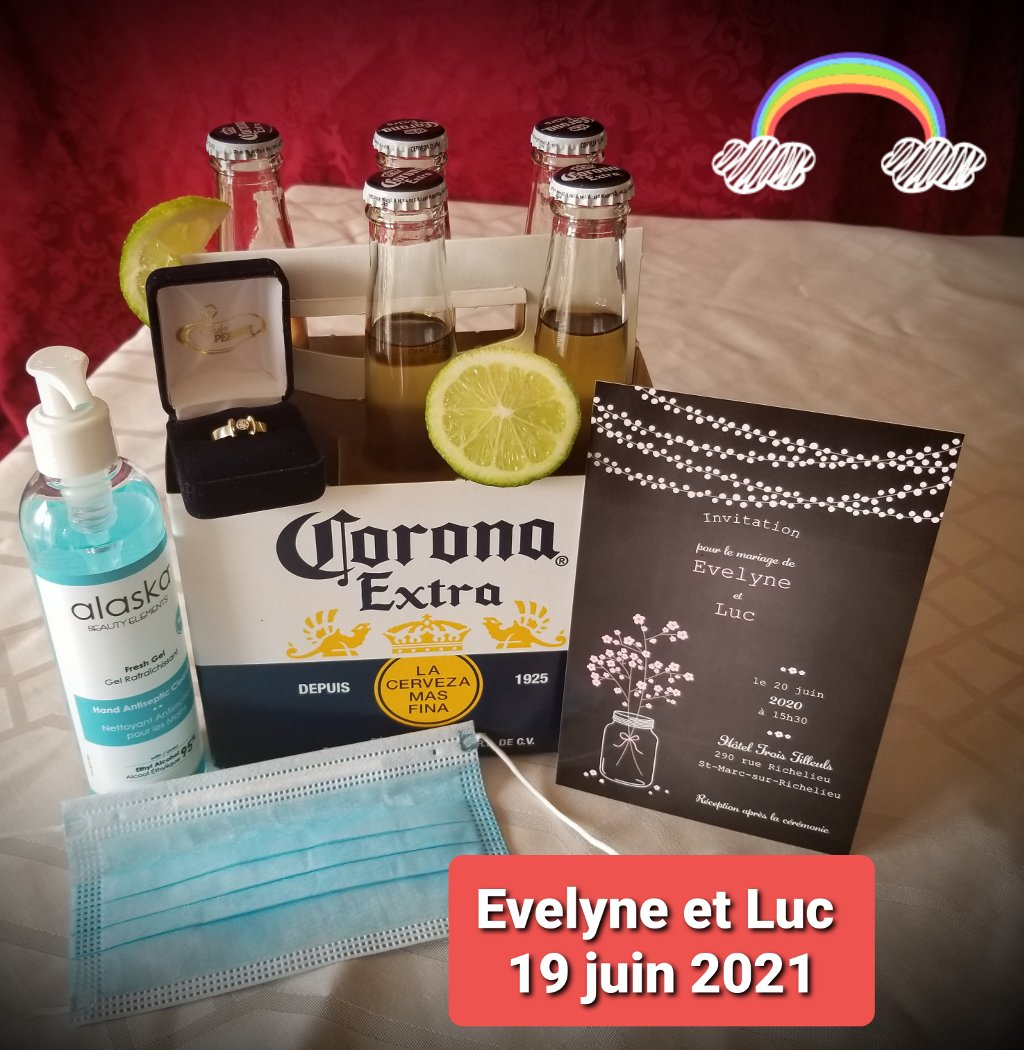
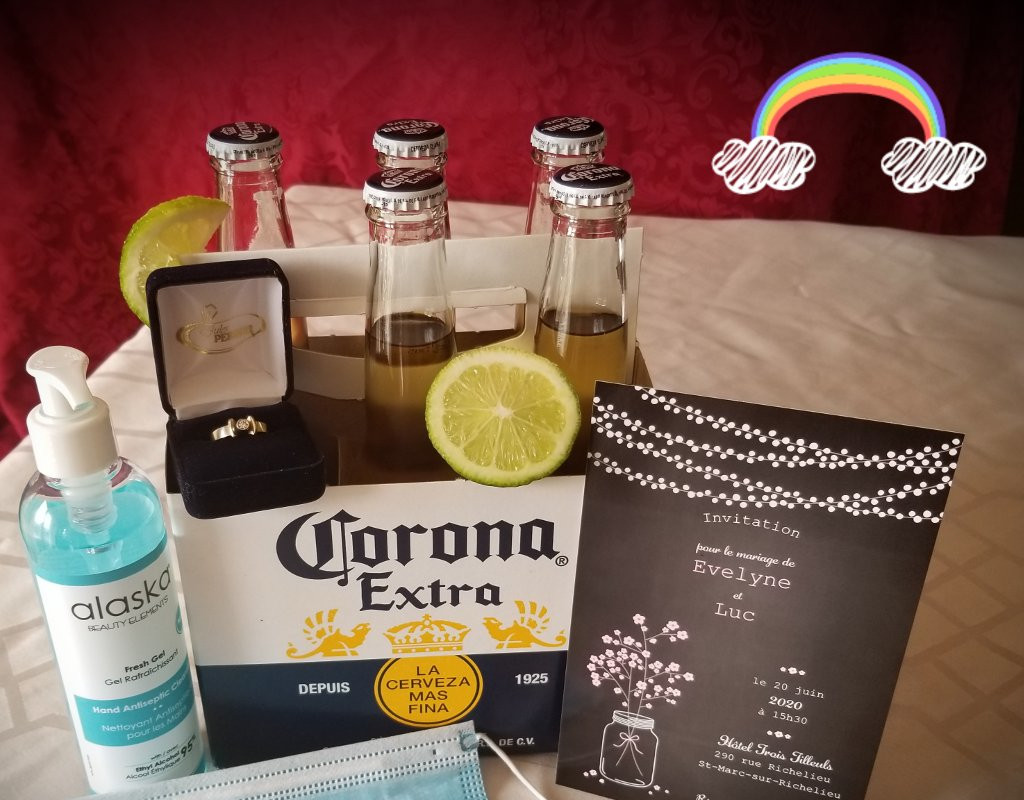
Canceled

diff --git a/index.html b/index.html
@@ -34,31 +34,6 @@
       <button class="navbar-toggler navbar-toggler-right" type="button" data-toggle="collapse" data-target="#navbarResponsive" aria-controls="navbarResponsive" aria-expanded="false" aria-label="Toggle navigation">
         <span class="navbar-toggler-icon"></span>
       </button>
-      <div class="collapse navbar-collapse" id="navbarResponsive">
-      <ul class="nav navbar-nav navbar-center">
-          <li class="nav-item">
-            <a class="nav-link js-scroll-trigger" href="#about">Bienvenue</a>
-          </li>
-          <li class="nav-item">
-            <a class="nav-link js-scroll-trigger" href="#mariage">Le Mariage</a>
-          </li>
-          <li class="nav-item">
-          <a target="_blank" class="nav-link js-scroll-trigger" href="https://docs.google.com/forms/d/e/1FAIpQLSeq6pDTNBmYdEYUo3nNWEUymQmS3iS0aQccYUiu7W4PglGhBQ/viewform?usp=sf_link">RSVP</a>
-          </li>
-          <li class="nav-item">
-          <a class="nav-link js-scroll-trigger" href="#map">Hôtel</a>
-          </li>
-          <li class="nav-item">
-          <a class="nav-link js-scroll-trigger" href="#cadeau">Cadeau</a>
-          </li>
-          <li class="nav-item">
-          <a class="nav-link js-scroll-trigger" href="#repas">Repas</a>
-          </li>
-          <li class="nav-item">
-          <a class="nav-link js-scroll-trigger" href="#photo">Photos</a>
-          </li>
-        </ul>
-      </div>
     </div>
   </nav>
 
@@ -67,12 +42,9 @@
     <div class="container h-100">
       <div class="row h-100 align-items-center justify-content-center text-center">
         <div class="col-lg-10 align-self-end">
-          <h2 class="text text-white font-weight-bold">Evelyne et Luc 19 juin 2021</h2>
         </div>
         <div class="col-lg-10 align-self-baseline">
-          <p class="text-white-75 mb-4">En raison des restrictions sur les rassemblements imposées suite à la COVID19, nous sommes dans l'obligation de reporter la date de notre union au 19 juin 2021</p>
-
-          <a target="_blank" class="btn btn-light btn-xl js-scroll-trigger" href="#about">En savoir plus</a><br/><br/>
+          <p class="text-white-75 mb-4">En raison des restrictions sur les rassemblements imposées suite à la COVID19, nous sommes dans l'obligation d'annuler le mariage</p>
         </div>
       </div>
     </div>
@@ -85,153 +57,10 @@
         <div class="col-lg-10 text-center">
           <h2 class="text-white mt-0">Bienvenue</h2>
           <hr class="divider light my-4">
-          <p class="text-white-75 mb-4">En raison des restrictions sur les rassemblements imposées suite à la COVID19, nous sommes dans l'obligation de reporter la date de notre union au <b style="color:white;white-space: nowrap"><u>19 juin 2021 à 16h30</u></b>. Le mariage demeure au Trois Tilleuls et le menu est inchangé.</p>
-
-          <p class="text-white-75 mb-4">Pour ceux qui avaient des réservations à l’hôtel des Trois Tilleuls, vos réservations ont été déplacées en date du 19 juin 2021. Nous vous recommandons de confirmer vos réservations avec l’hôtel des Trois Tilleuls.</p>
-
-          <p class="text-white-75 mb-4">Nous tenons à vivre ce beau moment avec vous sans porter atteinte à la sécurité de tous, merci de votre compréhension.</p>
-          <p class="text-white-75 mb-4">Nous vous demandons de confirmer votre présence <b style="color:white;white-space: nowrap"><u>avant le 1<sup>er</sup> mai 2021</u></b></p>
-</p>
-<a target="_blank" class="btn btn-light btn-xl js-scroll-trigger" href="https://docs.google.com/forms/d/e/1FAIpQLSeq6pDTNBmYdEYUo3nNWEUymQmS3iS0aQccYUiu7W4PglGhBQ/viewform?usp=sf_link">RSVP</a><br/><br/>
-          <p class="text-white-75 mb-4">De plus, vous pouvez déjà réserver votre séjour à l'hôtel.</p>
-          <br/>
-          <p class="text-white-75 mb-4">Evelyne et Luc</p>
+          <p class="text-white-75 mb-4">En raison des restrictions sur les rassemblements imposées suite à la COVID19, nous sommes dans l'obligation d'annuler le mariage</p>
         </div>
       </div>
     </div>
-  </section>
-
-  <section class="page-section" id="mariage">
-    <div class="container">
-      <div class="row justify-content-center">
-        <div class="col-lg-8 text-center">
-          <h2 class="text-center mt-0">Le Mariage</h2>
-          <hr class="divider my-4">
-          <h3 class="text-center mt-0">Cérémonie</h3>
-          <p class="text-50 mb-4">Luc vous accueille à partir de 16h. La cérémonie débute à 16h30.</p><br/>
-          <h3 class="text-center mt-0">Cocktail</h3>
-          <p class="text-50 mb-4">Après la cérémonie, un cocktail ainsi que des bouchées vous seront servis.</p><br/>
-          <p class="text-50 mb-4">Le repas vous sera servi à 19h.</p><br/>
-        </div>
-      </div>
-    </div>
-  </section>
-
-  <!-- Portfolio Section -->
-  <section class="page-section" id="portfolio">
-    <div class="container-fluid">
-      <div class="row no-gutters">
-        <div class="col-lg-4 col-sm-6">
-        <img class="b-lazy img-fluid" src="img/loading.gif" data-src="img/047.jpg" alt="">
-        </div>
-        <div class="col-lg-4 col-sm-6">
-        <img class="b-lazy img-fluid" src="img/loading.gif" data-src="img/048.jpg" alt="">
-        </div>
-        <div class="col-lg-4 col-sm-6">
-        <img class="b-lazy img-fluid" src="img/loading.gif" data-src="img/049.jpg" alt="">
-        </div>
-        <div class="col-lg-6 col-sm-6">
-        <img class="b-lazy img-fluid" src="img/loading.gif" data-src="img/050.jpg" alt="">
-        </div>
-        <div class="col-lg-6 col-sm-6">
-        <img class="b-lazy img-fluid" src="img/loading.gif" data-src="img/051.jpg" alt="">
-        </div>
-      </div>
-    </div>
-  </section>
-
-
-  <!-- Map -->
-  <section id="map" class="page-section bg-primary">
-  <div class="container">
-    <div class="row justify-content-center">
-      <div class="col-lg-12 text-center">
-        <h2 class="text-white mt-0">L'hôtel Trois Tilleuls</h2>
-        <hr class="divider light my-4">
-        <h3 class="text-white mt-0">Faites vite!</h3>
-        <p class="text-white mb-2">Nous avons choisi cet endroit puisque nous pouvons y trouver tous les services nécessaires, dont l'hébergement sur place. Il n'y a donc aucun risque de prendre le volant avec un verre en trop. Nous avons déjà un bloc de chambres à taux préférenciel à notre nom, mais les chambres sont limitées. On vous invite à communiquer avec eux rapidement.</p>
-        <br/>
-        <div class="map embed-responsive" style="height:400px">
-        <iframe class="map"  scrolling="no" marginheight="0" marginwidth="0" src="https://www.google.com/maps/embed?pb=!1m18!1m12!1m3!1d17720.375548135322!2d-73.19360276885703!3d45.64338003465555!2m3!1f0!2f0!3f0!3m2!1i1024!2i768!4f13.1!3m3!1m2!1s0x4cc8ff50553fa609%3A0xd16543bcea2bcb07!2sH%C3%B4tel%20Trois%20Tilleuls!5e0!3m2!1sen!2sca!4v1578443203397!5m2!1sen!2sca" allowfullscreen=""></iframe>
-        </div>
-        <br/>
-        <p class="text-white mb-4">Les réservations doivent être faites directement avec l'<a class="light" target="_blan" href="https://search.iqrez.com/reservations/TroisTilleulsHotel/">hôtel Trois Tilleuls</a> ou par téléphone au 514-856-7787. Vous devez mentionner au préposé que vous faites partie du groupe "mariage Loiselle et Trudeau".</p>
-      </div>
-    </div>
-  </div>
-  </section>
-
-  <section id="cadeau" class="page-section bg-dark">
-  <div class="container">
-    <div class="row justify-content-center">
-
-      <div class="col-lg-12 text-center">
-        <h2 class="text-center mt-0">Cadeau</h2>
-        <hr class="divider my-4">
-        <h3 class="text-center mt-0">Corbeille nuptiale</h3>
-        <p class="text-50 mb-4">Ça fait déjà plusieurs années qu'on vit ensemble, alors on a déjà notre toaster et notre belle coutellerie&nbsp;:) Donc, si le coeur vous en dit de nous offrir un cadeau, il y aura sur place une corbeille nuptiale.</p>
-      </div>
-    </div>
-  </div>
-  </section>
-
-  <section id="repas" class="page-section">
-  <div class="container">
-    <div class="row justify-content-center">
-      <div class="col-lg-10 text-center">
-        <h2 class="text-center mt-0">Repas</h2>
-        <hr class="divider my-4">
-        <p class="text-left mb-4">Velouté de champignons et gélifié de lait de coco</p>
-        <p class="text-left mb-4">Salade césar de l’Artiste, croutons à l’huile d’olive</p>
-        <p class="text-left mb-4">Plat principal (menu au choix):</p>
-        <p class="text-left mb-4">&nbsp;&nbsp;> Poitrine de volaille grillée farcie au brie, sauce vin rouge</p>
-        <p class="text-left mb-4">&nbsp;&nbsp;> Filet mignon de bœuf rôti, sauce marchand de vin</p>
-        <p class="text-left mb-4">Tartelette framboise coulis de fruits rouges</p>
-      </div>
-    </div>
-  </div>
-  </section>
-
-  <!-- Portfolio Section -->
-  <section class="page-section bg-dark" id="photo">
-  <div class="container">
-    <div class="row justify-content-center">
-      <div class="col-lg-12 text-center">
-        <h2 class="text-center mt-0">Photos</h2>
-        <hr class="divider my-4"><br/>
-        <p class="text-50 mb-4">Les photos du mariage seront disponibles éventuellement.</p>
-      </div>
-    </div>
-    <div class="row no-gutters text-center">
-      <div class="col-lg-4 col-sm-6">
-      <img class="b-lazy img-fluid" src="img/loading.gif" data-src="img/003.jpg" alt="">
-      </div>
-      <div class="col-lg-4 col-sm-6">
-      <img class="b-lazy img-fluid" src="img/loading.gif" data-src="img/065.jpg" alt="">
-      </div>
-      <div class="col-lg-4 col-sm-6">
-      <img class="b-lazy img-fluid" src="img/loading.gif" data-src="img/007.jpg" alt="">
-      </div>
-      <div class="col-lg-4 col-sm-6">
-      <img class="b-lazy img-fluid" src="img/loading.gif" data-src="img/080.jpg" alt="">
-      </div>
-      <div class="col-lg-4 col-sm-6">
-      <img class="b-lazy img-fluid" src="img/loading.gif" data-src="img/086.jpg" alt="">
-      </div>
-      <div class="col-lg-4 col-sm-6">
-      <img class="b-lazy img-fluid" src="img/loading.gif" data-src="img/087.jpg" alt="">
-      </div>
-      <div class="col-lg-4 col-sm-6">
-      <img class="b-lazy img-fluid" src="img/loading.gif" data-src="img/043.jpg" alt="">
-      </div>
-      <div class="col-lg-4 col-sm-6">
-      <img class="b-lazy img-fluid" src="img/loading.gif" data-src="img/069.jpg" alt="">
-      </div>
-      <div class="col-lg-4 col-sm-6">
-      <img class="b-lazy img-fluid" src="img/loading.gif" data-src="img/014.jpg" alt="">
-      </div>
-    </div>
-  </div>
   </section>
 
   <!-- Bootstrap core JavaScript -->
